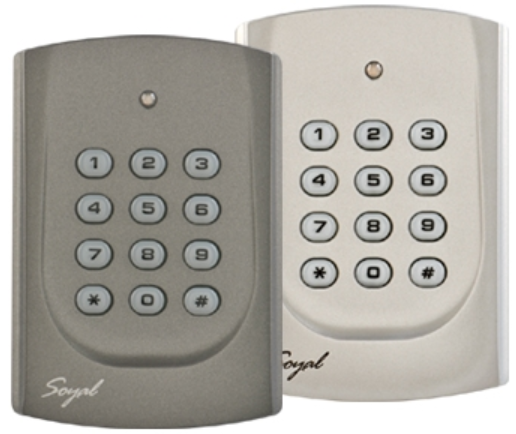
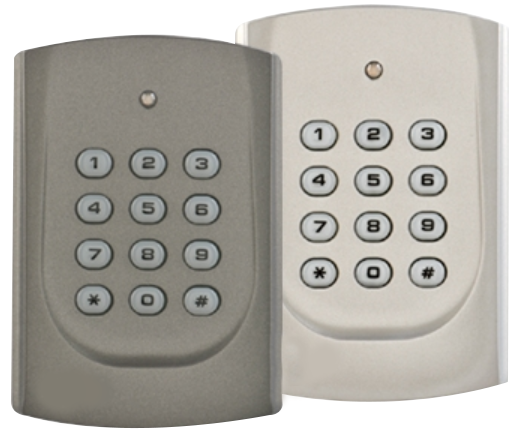
1

diff --git a/accesscontrolsystem/index.html b/accesscontrolsystem/index.html
@@ -135,7 +135,7 @@
         </h2>
         <div class="row">
           <div class="box_1 col-md-4">
-              <img src="img/machine01.jpg" alt="">
+              <img src="img/machine01.png" alt="">
               <div class="s_title">數位門禁讀卡機(輕巧型)</div>
               <ul>
                 <li><span class="xs_title">規格</span>感應頻率：125 KHz 或 13.56 MHz<br>
@@ -149,7 +149,7 @@
               </ul>
           </div>
           <div class="box_1 col-md-4">
-              <img src="img/machine02.PNG" alt="">
+              <img src="img/machine02.png" alt="">
               <div class="s_title">數位門禁讀卡機(按鍵型)</div>
               <ul>
                 <li><span class="xs_title">規格</span>
@@ -163,7 +163,7 @@
               </ul>
           </div>
           <div class="box_1 col-md-4">
-              <img src="img/machine03.PNG" alt="">
+              <img src="img/machine03.png" alt="">
               <div class="s_title">數位門禁讀卡機(液晶顯示型)</div>
               <ul>
                 <li><span class="xs_title">規格</span>
@@ -180,7 +180,7 @@
           </div>
 
           <div class="box_1 col-md-4">
-              <img src="img/machine04.PNG" alt="">
+              <img src="img/machine04.png" alt="">
               <div class="s_title">TCP/IP 控制轉換器</div>
               <ul>
                 <li><span class="xs_title">規格</span>
@@ -196,7 +196,7 @@
           </div>
 
           <div class="box_1 col-md-4">
-              <img src="img/machine05.jpg" alt="">
+              <img src="img/machine05.png" alt="">
               <div class="s_title">陽極鎖</div>
               <ul>
                 <li><span class="xs_title">規格</span>
@@ -211,7 +211,7 @@
           </div>
 
           <div class="box_1 col-md-4">
-              <img src="img/machine06.jpg" alt="">
+              <img src="img/machine06.png" alt="">
               <div class="s_title">磁力鎖</div>
               <ul>
                 <li><span class="xs_title">規格</span>

diff --git a/accesscontrolsystem/css/style.css b/accesscontrolsystem/css/style.css
@@ -121,7 +121,8 @@
 	border-bottom: 1px solid #FFF;
 	padding-bottom: 0.5em;
 	font-size: 1.2em;
-    margin-bottom: 0.5em;	
+    margin-bottom: 0.5em;
+    padding-top: 1em;	
 }
 #all_machine ul {
 	list-style: none;
@@ -147,10 +148,13 @@
     margin-bottom: 1em;
     letter-spacing: 0.1em;
 }
-#about h2{
+h2{
 	color: orange;
     margin-bottom: 1em;
     font-weight: 400;
+}
+.bg_purple_cyan h2{
+	color: #FFF;
 }
 #all_machine ul li{
 	margin-bottom: 1em;
